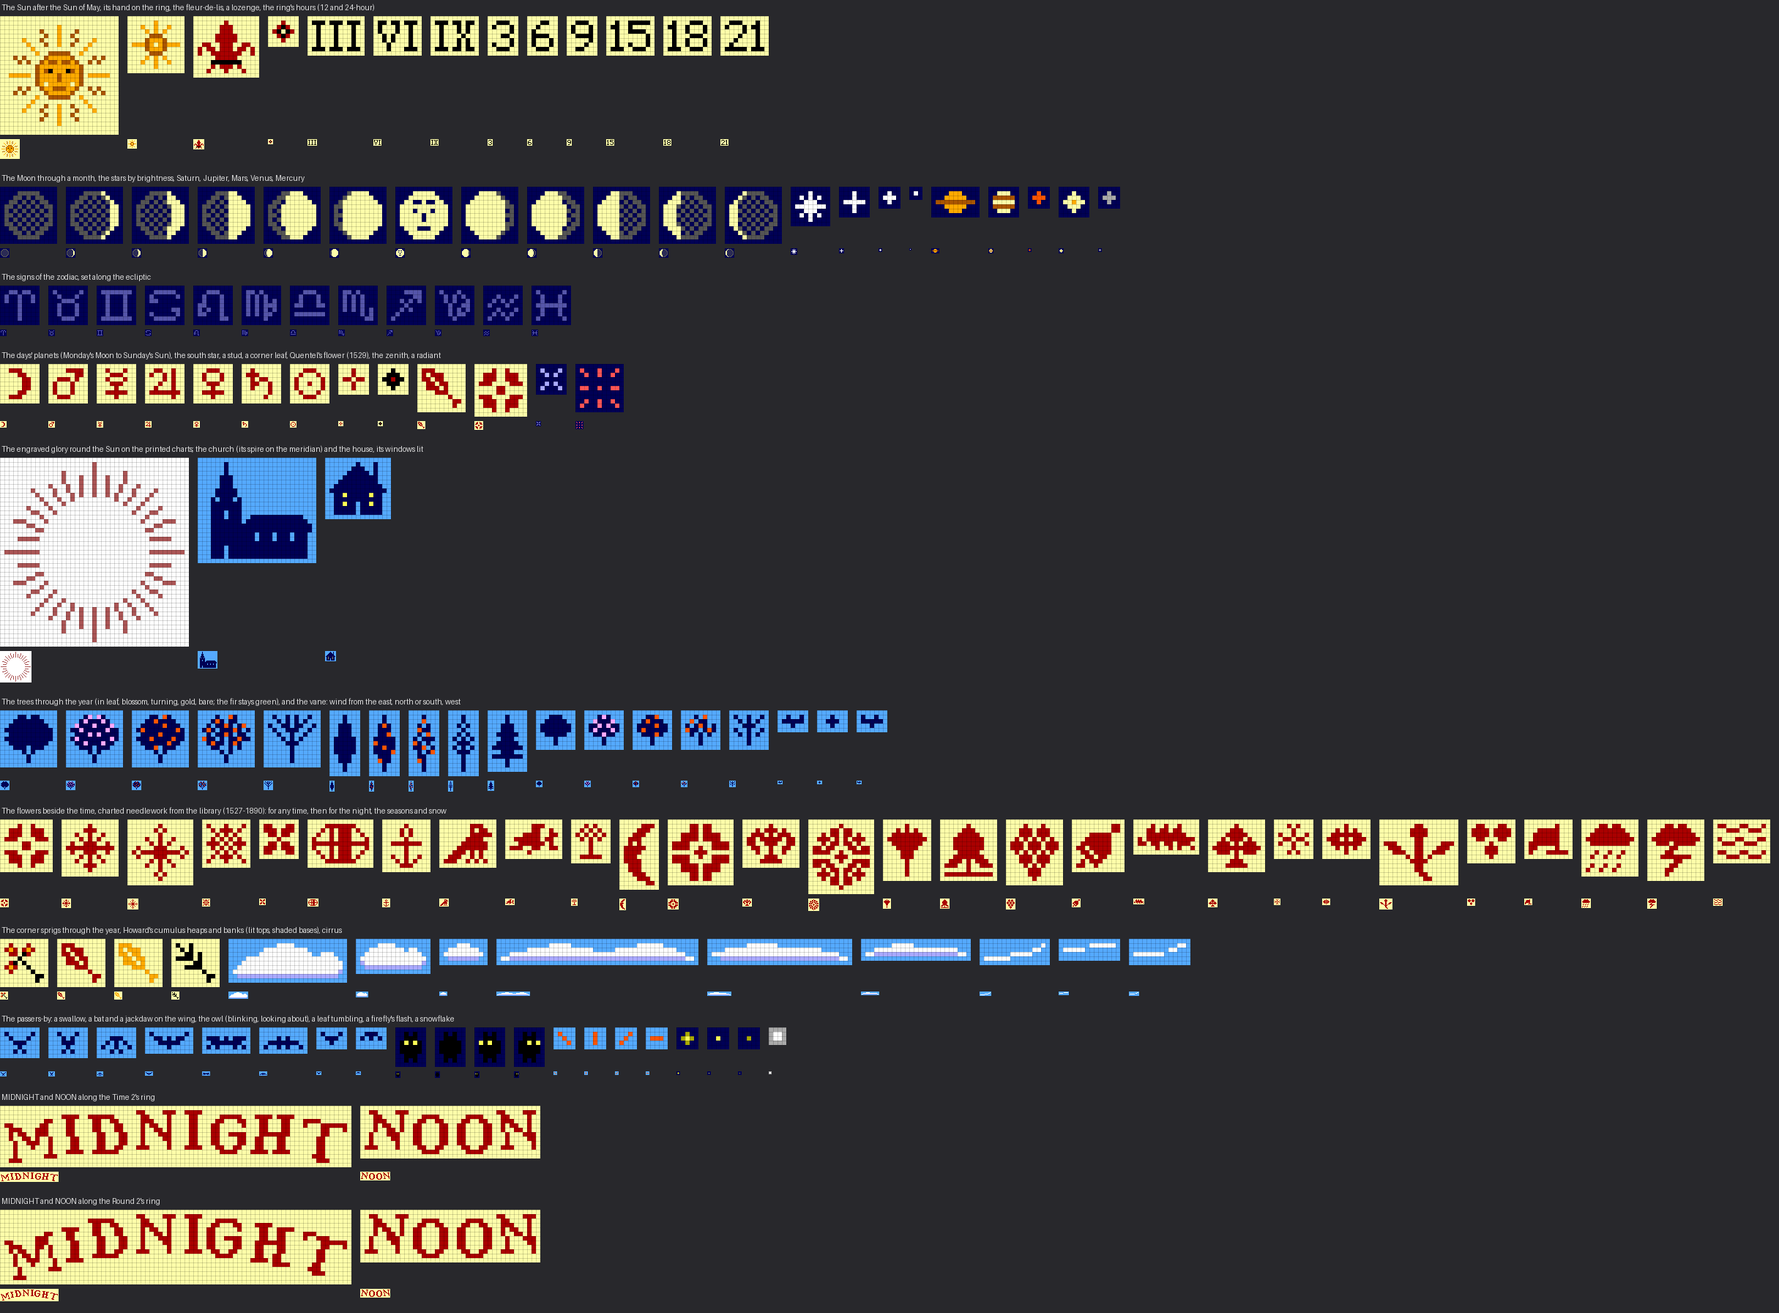
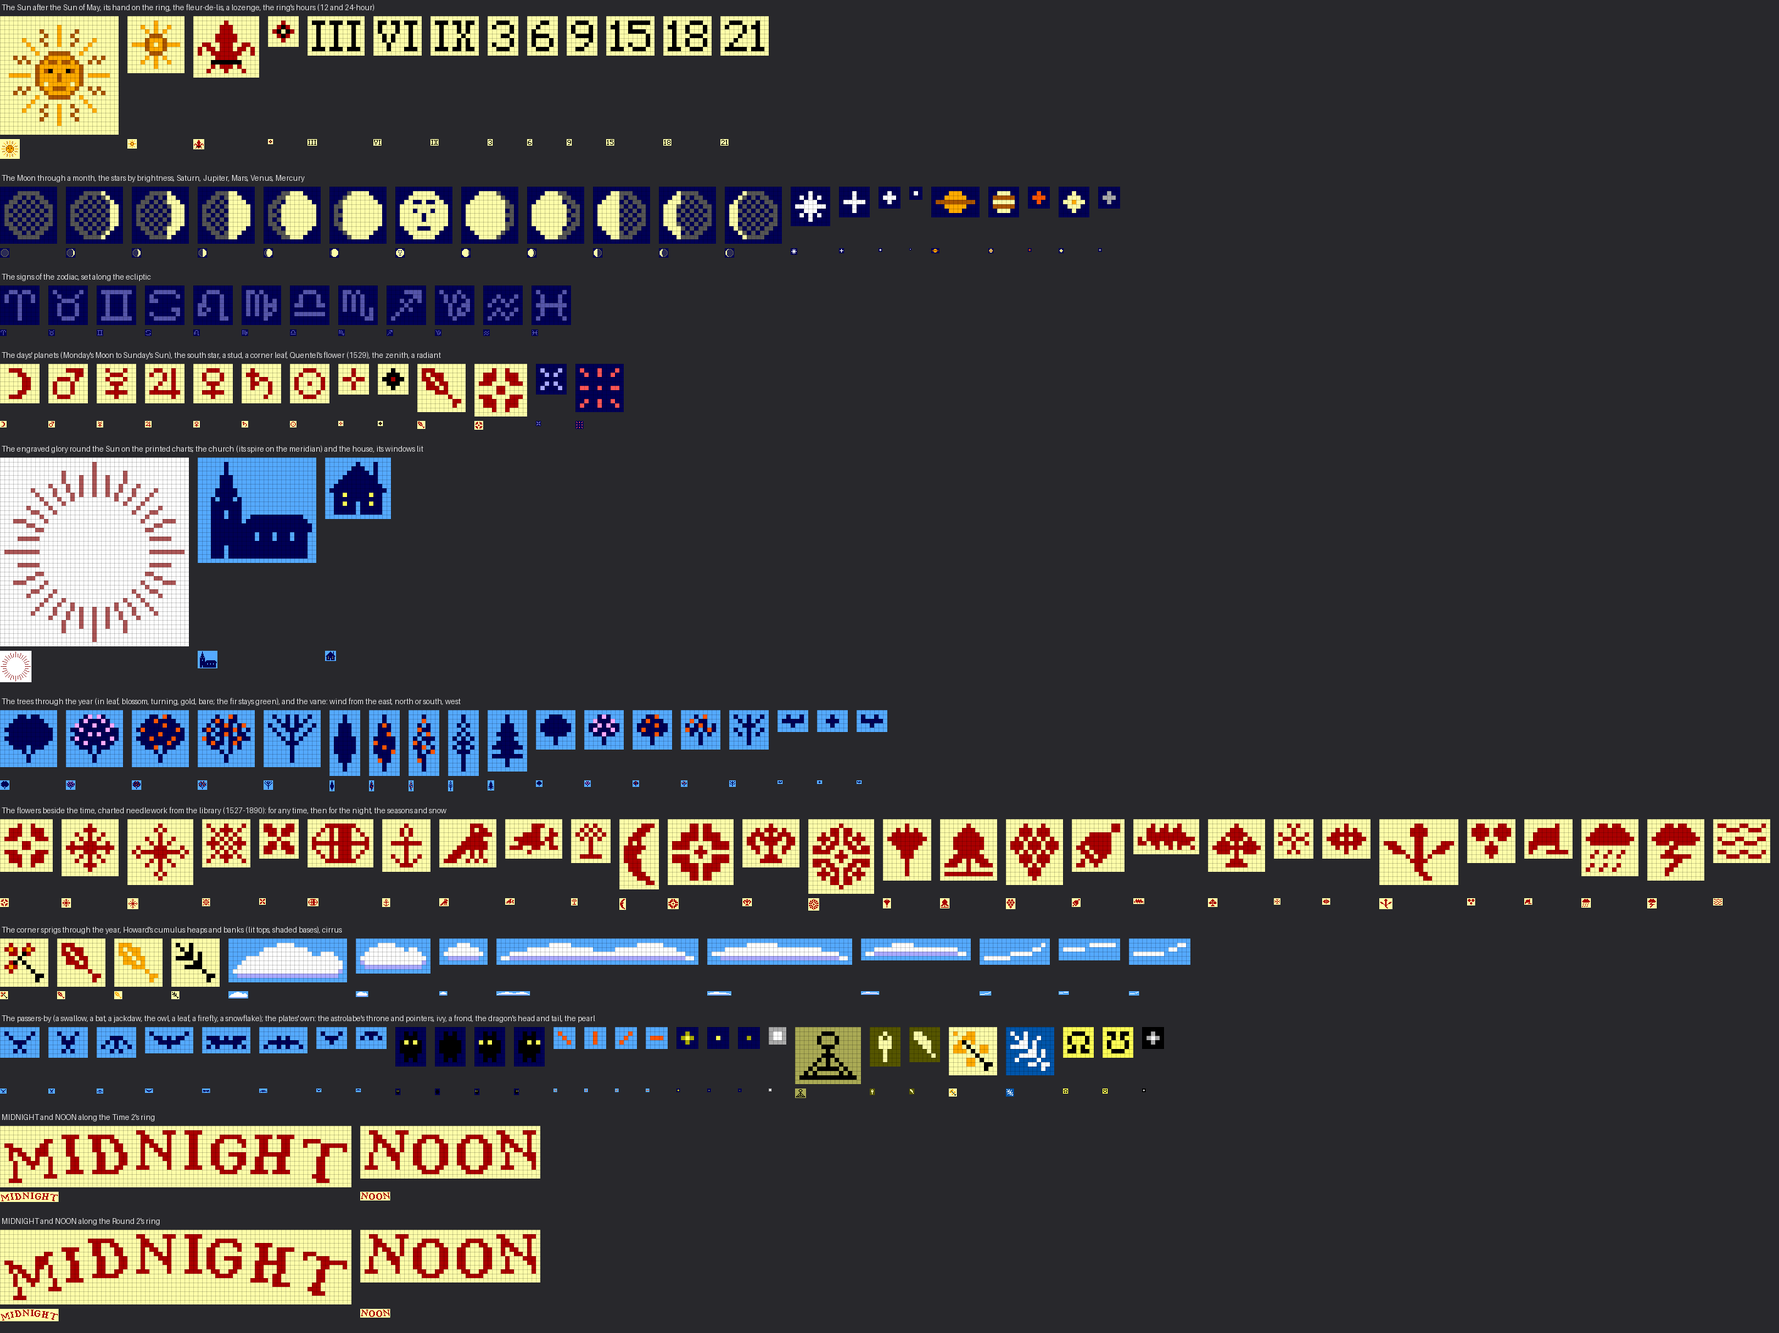
Apian's woodcut: a fifth new plate, coloured by hand
After the Astronomicum Caesareum (Ingolstadt, 1540), its volvelles
printed in heavy black line and coloured by hand:
- the zodiac a band six degrees either side of the ecliptic, washed
  yellow and ruled black, with the ecliptic red through it; the Milky Way
  a flat wash with no grain;
- the bright stars cut in outline and coloured, the faint ones dots, the
  figures black line on a light blue sky;
- the ring washed yellow, with the night hatched over it in a quiet tone
  so the lettering stays clear (black hatching buried MIDNIGHT);
- Apian's dragon: in an eclipse season, when the Sun is within eighteen
  degrees of a node of the Moon's path, the dragon's head and tail
  printed black at the nodes, slid along the ecliptic where the Moon
  itself stands there; the node from Meeus 47.7 (lunar.node);
- the Sun's index a silk thread across the ring with a seed pearl, as
  Apian's volvelles are read, in place of the gilded Sun.

diff --git a/proto/plates.py b/proto/plates.py
@@ -18,6 +18,9 @@ the type of its time, the way Groundtrack's plates follow real charts:
                 zones, blue for the day, red-brown for the twilight, black for the night
   cyanotype     a cyanotype, Herschel's blueprint as Anna Atkins used it for her algae (1843): white on cobalt,
                 a seaweed frond in the corners
+  apian         Apian's Astronomicum Caesareum (Ingolstadt, 1540), a woodcut coloured by hand: heavy black line,
+                a yellow zodiac band across a light blue sky, a yellow-washed ring, the dragon at the Moon's nodes
+                in eclipse seasons, a silk thread and a seed pearl for the Sun's index
   night         the first take: a black jacket, white type
 
 Each shows the time as almanacs and astronomers write it, 9ʰ 30ᵐ (21ʰ 30ᵐ on
@@ -47,6 +50,7 @@ import events
 import figures
 import frame
 import horizon
+import lunar
 import skies
 import sprites
 import weather as meteo
@@ -88,6 +92,10 @@ PLATES = {
                       star=c8(3, 3, 3), glyph="cross", line=c8(1, 2, 3), milky=c8(0, 1, 2), label=c8(3, 3, 3),
                       const=c8(2, 3, 3), planet=c8(3, 3, 3), rule=c8(3, 3, 3), font=(OLD, None), italic=(OLD_I, None),
                       ring="roman", figures="modern", corner="frond"),
+    "apian": dict(jacket=c8(3, 3, 2), ink=c8(0, 0, 0), accent=c8(3, 1, 0), window="paper", night=c8(1, 2, 3),
+                  star=c8(3, 3, 1), glyph="woodcut", line=c8(0, 0, 0), milky=c8(2, 3, 3), label=c8(0, 0, 0),
+                  const=c8(3, 1, 0), planet=c8(3, 1, 0), rule=c8(0, 0, 0), font=(OLD, None), italic=(OLD_I, None),
+                  ring="roman", figures="caslon", woodcut=True, ringwash=c8(3, 3, 1), dragon=True, hand="thread"),
     "night": dict(jacket=c8(0, 0, 0), ink=c8(3, 3, 3), accent=c8(3, 2, 0), window="sky", night=c8(0, 0, 1),
                   star=c8(3, 3, 3), glyph="cross", line=c8(0, 1, 2), milky=c8(1, 1, 2), label=c8(2, 2, 2),
                   const=c8(1, 1, 2), planet=c8(3, 2, 1), rule=c8(1, 1, 1), font=(OLD, None), italic=(OLD_I, None),
@@ -622,6 +630,17 @@ def render(when, dial, sky, tz, plate="planisphere", round_screen=True, clock24=
     else:
         img[inside] = P["night"]
         dark = True
+        if P.get("woodcut"):                             # the zodiac: a band six degrees either side of the
+            ra_ = np.radians(lst) - pha                  # ecliptic, washed yellow and ruled black, the ecliptic red
+            e_ = math.radians(pos["eps"])
+            beta_ = np.degrees(np.arcsin(np.clip(np.sin(pdec) * math.cos(e_) - np.cos(pdec) * math.sin(e_) * np.sin(ra_), -1, 1)))
+            zband = (np.abs(beta_) < 6) & inside
+            img[zband] = c8(3, 3, 1)
+            img[outline(zband) & inside] = P["ink"]
+            line_ = Image.new("L", (W * SS, H * SS), 0)
+            ImageDraw.Draw(line_).line([(x * SS, y * SS) for x, y in (dial.project(*astro.ecl_to_eq(l_, 0, pos["eps"]), lst)
+                                                                       for l_ in np.arange(0, 361, 1))], fill=255, width=4)
+            img[(np.asarray(line_, np.float64).reshape(H, SS, W, SS).mean(axis=(1, 3)) > 110) & zband] = P["accent"]
     ground = img.copy()
     faint = float(np.interp(s_eff, [-16, -10, -5, -1.5], [4.6, 3.4, 2.0, 0.4])) if not paper else 4.6
     if not paper and s_eff > -1.5:
@@ -658,7 +677,10 @@ def render(when, dial, sky, tz, plate="planisphere", round_screen=True, clock24=
             acc_all = np.maximum(acc_all, acc * (level + 1) / len(mw))
         m = acc_all.reshape(H, SS, W, SS).mean(axis=(1, 3))
         dens = np.clip(m * (0.30 if paper else 0.42), 0, 1) ** 1.2
-        img[(dens > tt) & inside & ~hidden & ~lay.band] = P["milky"]
+        if P.get("woodcut"):                             # a woodcut has no grain: the Milky Way a flat wash
+            img[(m > 0.18) & inside & ~hidden & ~lay.band & ~((img == c8(3, 3, 1)).all(axis=2))] = P["milky"]
+        else:
+            img[(dens > tt) & inside & ~hidden & ~lay.band] = P["milky"]
 
     # on an astrolabe: the plate's engraved circles under the rete (the equator, the tropics, the almucantars at 30
     # and 60 degrees), and the rete's own ecliptic, a solid ring
@@ -685,6 +707,8 @@ def render(when, dial, sky, tz, plate="planisphere", round_screen=True, clock24=
                 continue
             x, y = dial.project(ra, de, lst)
             xi, yi = int(x), int(y)
+            if kind == "ecl" and P.get("woodcut"):
+                continue
             if 0 <= xi < W and 0 <= yi < H and inside[yi, xi] and dark and not hidden[yi, xi]:
                 img[yi, xi] = P["const"] if kind == "ecl" else P["line"]
 
@@ -742,6 +766,22 @@ def render(when, dial, sky, tz, plate="planisphere", round_screen=True, clock24=
             boxes.append((xi - ti_ - 1, yi - tj_ - 1, xi - ti_ + d_.shape[1] + 1, yi - tj_ + d_.shape[0] + 1))
             continue
         drawn.append((xi, yi, 3 if mg < 0.5 else 2 if mg < 1.4 else 1 if mg < 2.1 else 0))
+        if P.get("woodcut"):                             # cut in outline and coloured by hand; the faint ones dots
+            if mg < 2.1:
+                spr = sprites.STAR[0 if mg < 0.5 else 1 if mg < 1.4 else 2]
+                sm = np.zeros((H, W), bool)
+                h_, w_ = spr.shape
+                y0_, x0_ = yi - (h_ - 1) // 2, xi - (w_ - 1) // 2
+                for j, i in zip(*np.nonzero(spr)):
+                    if 0 <= y0_ + j < H and 0 <= x0_ + i < W:
+                        sm[y0_ + j, x0_ + i] = True
+                img[outline(sm) & inside] = P["ink"]
+                img[sm & inside] = c
+                if mg < 1.4:
+                    boxes.append((xi - 3, yi - 3, xi + 4, yi + 4))
+            elif 0 <= yi < H and 0 <= xi < W and inside[yi, xi]:
+                img[yi, xi] = P["ink"]
+            continue
         if mg < 0.5:
             sprites.paint(img, sprites.STAR[0], xi, yi, {5: c}, where=inside)
             boxes.append((xi - 3, yi - 3, xi + 4, yi + 4))
@@ -1072,6 +1112,28 @@ def render(when, dial, sky, tz, plate="planisphere", round_screen=True, clock24=
             img[halo] = P["const"]
             boxes.append((xi - 4, yi - 4, xi + 5, yi + 5))
 
+    # Apian's dragon: in an eclipse season (the Sun within eighteen degrees of a node of the Moon's path), its head
+    # and tail at the nodes on the ecliptic, where the eclipses happen
+    if P.get("dragon"):
+        om_ = lunar.node(astro.julian(when))
+        gap_ = min(abs((pos["sun_lon"] - om_ + 180) % 360 - 180), abs((pos["sun_lon"] - om_) % 360 - 180))
+        if gap_ < 18:
+            for lon_, glyph_ in ((om_, sprites.DRAGON_HEAD), (om_ + 180, sprites.DRAGON_TAIL)):
+                # at the node, or as near it along the ecliptic as there is room (in an eclipse season the Moon
+                # itself is often there)
+                for off_ in (0, 3, -3, 6, -6, 9, -9, 12, -12):
+                    x, y = dial.project(*astro.ecl_to_eq(lon_ + off_, 0, pos["eps"]), lst)
+                    xi, yi = int(math.floor(x)), int(math.floor(y))
+                    if 3 <= xi < W - 3 and 3 <= yi < H - 3 and inside[yi - 3: yi + 4, xi - 3: xi + 4].all() and \
+                            free((xi - 3, yi - 3, xi + 4, yi + 4)):
+                        halo = np.zeros((H, W), bool)
+                        halo[yi - 2: yi + 3, xi - 2: xi + 3] = glyph_ > 0
+                        ring_ = grow(halo, 1) & ~halo & inside
+                        img[ring_] = ground[ring_]
+                        img[halo] = P["ink"]             # printed black, to stand clear of the red ecliptic
+                        boxes.append((xi - 3, yi - 3, xi + 4, yi + 4))
+                        break
+
     # passing things in the sky (meteors, birds): a flash across everything in the window, names too
     if extras is not None:
         extras(img, dict(inside=inside, ground=ground, dial=dial, lst=lst, pos=pos, sun_alt=sun_alt, dark=dark,
@@ -1112,7 +1174,11 @@ def render(when, dial, sky, tz, plate="planisphere", round_screen=True, clock24=
     ang = np.degrees(np.arctan2(xx + 0.5 - dial.cx, yy + 0.5 - dial.cy))
     s_alt = np.degrees(np.arcsin(np.sin(lat) * np.sin(sdec) + np.cos(lat) * np.cos(sdec) * np.cos(np.radians(ang))))
     step = np.select([s_alt > -0.833, s_alt > -6, s_alt > -12, s_alt > -18], [0] + list(HATCH[:3]), HATCH[3])
-    if P.get("ringfill") == "zones":                     # the clock's zones round the Sun's path instead, the day
+    if P.get("ringwash") is not None:                    # a hand-coloured ring: washed, the night hatched over it in a
+        img[band] = P["ringwash"]                        # quiet tone, so the lettering stays clear
+        hatch = band & (step > 0) & ((xx + yy) % np.maximum(step, 1) == 0)
+        img[hatch] = c8(2, 2, 1)
+    elif P.get("ringfill") == "zones":                   # the clock's zones round the Sun's path instead, the day
         img[band & (s_alt > -0.833)] = c8(0, 1, 2)       # a deep blue, as on the clock, so the gold reads on it
         img[band & (s_alt <= -0.833) & (s_alt > -18)] = c8(2, 1, 0)
     else:
@@ -1295,23 +1361,31 @@ def render(when, dial, sky, tz, plate="planisphere", round_screen=True, clock24=
     sun_ang = lst - pos["sun"][0]
     (ex_, ey_), (ox_, oy_) = edge_point(dial, sun_ang), track_point(dial, sun_ang, r_out + 1)
     hx, hy = (ex_ + ox_) / 2, (ey_ + oy_) / 2
-    hand = np.zeros((H, W), bool)
-    sh = sprites.SUN_HAND
-    hx0, hy0 = int(round(hx - sh.shape[1] / 2)), int(round(hy - sh.shape[0] / 2))
-    for j, i in zip(*np.nonzero(sh)):
-        if 0 <= hy0 + j < H and 0 <= hx0 + i < W:
-            hand[hy0 + j, hx0 + i] = True
-    index = [p_ for p_ in line_pixels(hx, hy, *edge_point(dial, sun_ang, 0.6))
-             if not hand[min(H - 1, max(0, p_[1])), min(W - 1, max(0, p_[0]))]]
-    for px_, py_ in index:
-        if 0 <= py_ < H and 0 <= px_ < W:
-            hand[py_, px_] = True
-    clear = grow(hand, 1) & ~inside
-    img[clear] = P["jacket"]
-    for px_, py_ in index:
-        if 0 <= py_ < H and 0 <= px_ < W:
-            img[py_, px_] = sun_c[4]
-    sprites.paint(img, sh, hx0, hy0, sun_c, anchor="corner")
+    if P.get("hand") == "thread":                        # Apian's index: a silk thread across the band, a seed pearl
+        for px_, py_ in line_pixels(*edge_point(dial, sun_ang, 0.6), *track_point(dial, sun_ang, r_out + 0.6)):
+            if 0 <= py_ < H and 0 <= px_ < W and not inside[py_, px_]:
+                img[py_, px_] = P["ink"]
+        setting = (np.abs(xx + 0.5 - hx) + np.abs(yy + 0.5 - hy) <= 2.6) & ~inside      # the pearl's dark setting
+        img[setting] = P["ink"]
+        sprites.paint(img, sprites.PEARL, hx - 0.5, hy - 0.5, {7: c8(2, 2, 2), 5: c8(3, 3, 3)})
+    else:
+        hand = np.zeros((H, W), bool)
+        sh = sprites.SUN_HAND
+        hx0, hy0 = int(round(hx - sh.shape[1] / 2)), int(round(hy - sh.shape[0] / 2))
+        for j, i in zip(*np.nonzero(sh)):
+            if 0 <= hy0 + j < H and 0 <= hx0 + i < W:
+                hand[hy0 + j, hx0 + i] = True
+        index = [p_ for p_ in line_pixels(hx, hy, *edge_point(dial, sun_ang, 0.6))
+                 if not hand[min(H - 1, max(0, p_[1])), min(W - 1, max(0, p_[0]))]]
+        for px_, py_ in index:
+            if 0 <= py_ < H and 0 <= px_ < W:
+                hand[py_, px_] = True
+        clear = grow(hand, 1) & ~inside
+        img[clear] = P["jacket"]
+        for px_, py_ in index:
+            if 0 <= py_ < H and 0 <= px_ < W:
+                img[py_, px_] = sun_c[4]
+        sprites.paint(img, sh, hx0, hy0, sun_c, anchor="corner")
 
     # the time, as an astronomer writes it, with the date and the Sun's next rising or setting
     ring_in = dial.cy - (dial.R - r_in) if not rect else r_in

diff --git a/proto/sprites.py b/proto/sprites.py
@@ -569,6 +569,19 @@ def minuscule(text, gap=1):
     return out
 
 
+# ---- the Apian plate's pieces: the dragon's head and tail at the Moon's nodes (as on Apian's dragon volvelle, 1540),
+# and the seed pearl on the silk thread that serves his volvelles for an index
+DRAGON_HEAD = art([".RRR.",           # the ascending node
+                   "R...R",
+                   "R...R",
+                   ".R.R.",
+                   "RR.RR"])
+DRAGON_TAIL = DRAGON_HEAD[::-1, :].copy()   # the descending node, the head turned over
+PEARL = art([".S.",
+             "SWS",
+             ".S."])
+
+
 # ---- small marks: the south point's star, the studs on the ring at every third hour, a meteor shower's radiant
 SOUTH_STAR = art([
     "..R..",
@@ -1256,7 +1269,11 @@ if __name__ == "__main__":
         + [block(f, {1: (0, 0, 0), 3: (255, 255, 85)}, (0, 0, 85)) for f in OWL]
         + [block(f, {2: (255, 85, 0)}, (85, 170, 255)) for f in FALLING_LEAF]
         + [block(f, {3: (255, 255, 85), 4: (170, 170, 0)}, (0, 0, 85)) for f in FIREFLY]
-        + [block(SNOWFLAKE, {5: (255, 255, 255)}, (170, 170, 170))],
+        + [block(SNOWFLAKE, {5: (255, 255, 255)}, (170, 170, 170))]
+        + [block(THRONE, {1: (0, 0, 0)}, (170, 170, 85)), block(FLAME, {3: (255, 255, 170)}, (85, 85, 0)),
+           block(FLAME_DIAG, {3: (255, 255, 170)}, (85, 85, 0)), block(CORNER_IVY, {1: (0, 0, 0), 3: (255, 170, 0)}, cream),
+           block(CORNER_FROND, {1: (255, 255, 255)}, (0, 85, 170)), block(DRAGON_HEAD, {2: (0, 0, 0)}, (255, 255, 85)),
+           block(DRAGON_TAIL, {2: (0, 0, 0)}, (255, 255, 85)), block(PEARL, {5: (255, 255, 255), 7: (170, 170, 170)}, (0, 0, 0))],
         [mask_block(word_art(w, 200, 228)[0], red, cream) for w in ("MIDNIGHT", "NOON")],
         [mask_block(word_art(w, 260, 260)[0], red, cream) for w in ("MIDNIGHT", "NOON")],
     ]
@@ -1268,7 +1285,7 @@ if __name__ == "__main__":
               "The trees through the year (in leaf, blossom, turning, gold, bare; the fir stays green), and the vane: wind from the east, north or south, west",
               "The flowers beside the time, charted needlework from the library (1527-1890): for any time, then for the night, the seasons and snow",
               "The corner sprigs through the year, Howard's cumulus heaps and banks (lit tops, shaded bases), cirrus",
-              "The passers-by: a swallow, a bat and a jackdaw on the wing, the owl (blinking, looking about), a leaf tumbling, a firefly's flash, a snowflake",
+              "The passers-by (a swallow, a bat, a jackdaw, the owl, a leaf, a firefly, a snowflake); the plates' own: the astrolabe's throne and pointers, ivy, a frond, the dragon's head and tail, the pearl",
               "MIDNIGHT and NOON along the Time 2's ring", "MIDNIGHT and NOON along the Round 2's ring"]
     tiles = []
     for r, label in zip(rows, labels):

diff --git a/proto/lunar.py b/proto/lunar.py
@@ -96,6 +96,13 @@ def sun(jde):
     return (true_lon - 0.00569) % 360, R
 
 
+def node(jde):
+    """The longitude of the Moon's mean ascending node (degrees; Meeus 47.7): where its path climbs through the
+    ecliptic, the dragon's head of the old astronomers; the tail is opposite."""
+    T = (jde - 2451545.0) / 36525
+    return (125.0445479 - 1934.1362891 * T + 0.0020754 * T * T + T ** 3 / 467441 - T ** 4 / 60616000) % 360
+
+
 def nutation(jde):
     """Nutation in longitude and the true obliquity (degrees), to the accuracy of Meeus ch. 22's short form."""
     T = (jde - 2451545.0) / 36525

diff --git a/README.md b/README.md
@@ -23,14 +23,16 @@ Like Groundtrack's plates, each plate follows a real tradition of sky charts, se
 | **Hours** | A Book of Hours, after the *Très Riches Heures* (c. 1412–1416): gold stars in an ultramarine sky on vellum, vermilion and gold, the hours in the small roman of the manuscripts (iij, vj, ix), ivy in the corners | Libre Caslon's old-style figures |
 | **Orloj** | Prague's astronomical clock (1410): gold on black, the sky and the ring in the clock's three flat zones, blue for the day, red-brown for the twilight, black for the night | Old Standard |
 | **Cyanotype** | A cyanotype, Herschel's blueprint (1842) as Anna Atkins used it for her *British Algae* (1843): white on cobalt, a seaweed frond in each corner | Old Standard |
+| **Apian** | Apian's *Astronomicum Caesareum* (Ingolstadt, 1540), a woodcut coloured by hand: heavy black line, a yellow zodiac band across a light blue sky, the stars cut in outline and coloured, a yellow-washed ring, the dragon at the Moon's nodes in eclipse seasons, a silk thread and a seed pearl for the Sun's index | Libre Caslon's old-style figures |
 
-The planisphere, observatory and night plates show the live sky in their window: night blue, the blue hour with its warm glow, day blue with the Sun in it. Burritt, Flamsteed, the Hours and the Cyanotype are printed or painted, so their windows keep the stars by day as a chart would, with the Sun drawn among them. The Astrolabe keeps its rete up by day as the instrument does. The Orloj's window takes the clock's zones: blue while the Sun is up, red-brown through the twilight, black at night.
+The planisphere, observatory and night plates show the live sky in their window: night blue, the blue hour with its warm glow, day blue with the Sun in it. Burritt, Flamsteed, the Hours, the Cyanotype and Apian's woodcut are printed or painted, so their windows keep the stars by day as a chart would, with the Sun drawn among them. The Astrolabe keeps its rete up by day as the instrument does. The Orloj's window takes the clock's zones: blue while the Sun is up, red-brown through the twilight, black at night.
 
 Each new plate brings its own pieces:
 - **The Astrolabe** has its throne and ring at the north in place of the fleur-de-lis, and flame pointers for the stars, after the Gothic retes. Its ring has Gothic figures (the 3 a yogh, the 6 a sigma, the 9 tailed, after Hill's tables of 1915) and beads at the unequal hours: the day from sunrise to sunset in twelve and the night in twelve, crowding and spreading with the seasons, as the plates engrave them.
 - **The Hours** has its hours in small roman, the last i written j, and gold ivy in the corners.
 - **The Orloj** fills its ring with the clock's zones in place of the engraver's hatching, so the gilded Sun travels through blue, brown and black.
 - **The Cyanotype** has white seaweed fronds in its corners.
+- **Apian's woodcut** is coloured as his volvelles were: the zodiac a band six degrees either side of the ecliptic, washed yellow and ruled black, the ecliptic red through it, and the Milky Way a flat wash with no grain. The bright stars are cut in outline and coloured; the faint ones are black dots. The ring is washed yellow, with the night hatched over it in a quiet tone so the lettering stays clear. In an eclipse season, when the Sun is within eighteen degrees of a node of the Moon's path, the dragon's head ☊ and tail ☋ stand at the nodes, where the eclipses happen, as on Apian's dragon volvelle; the nodes come from Meeus. The Sun's hour is marked not by the gilded Sun but by a silk thread across the ring with a seed pearl on it, as Apian's volvelles are read.
 
 ![The paper planisphere at 9:30 pm](docs/plate-planisphere.png)
 
